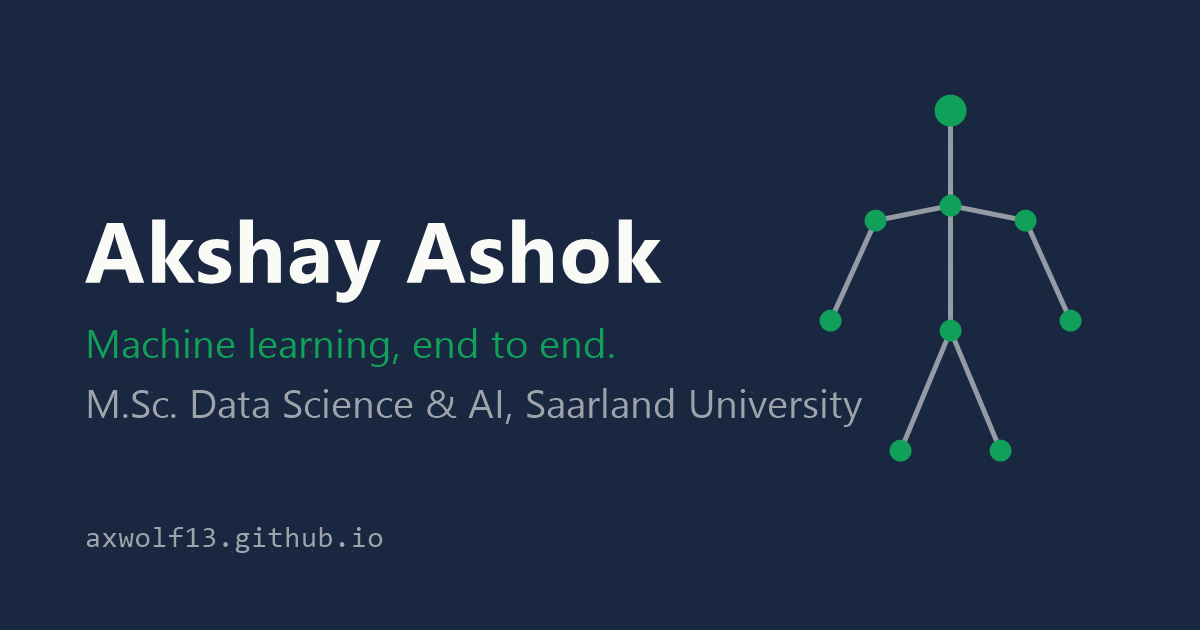
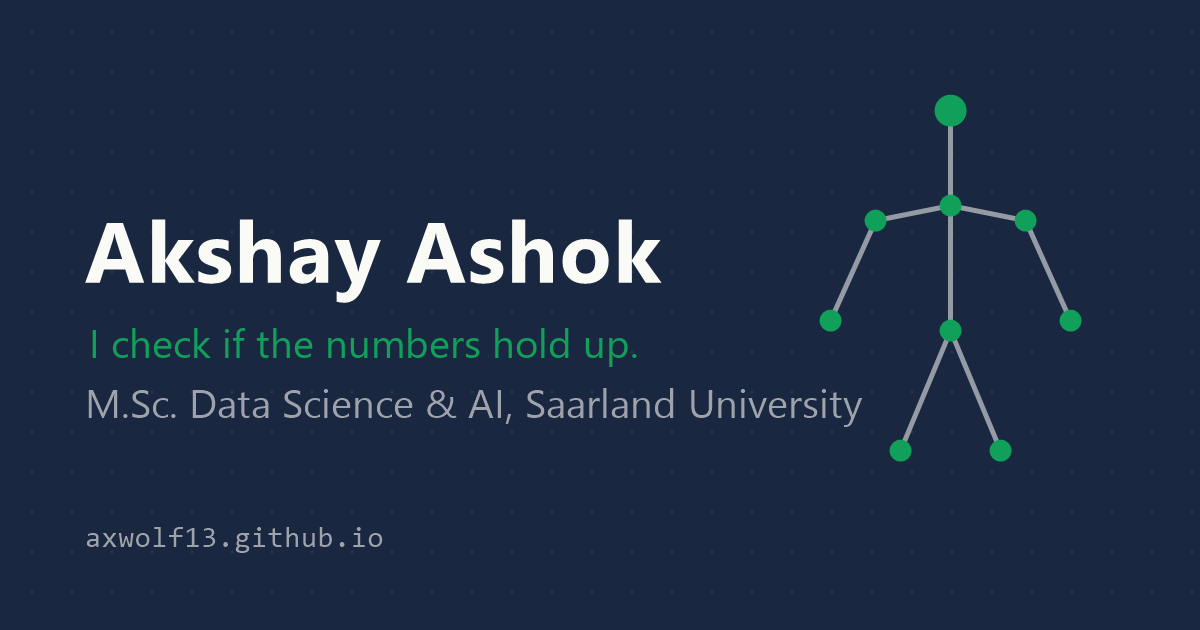
Sharper headline, shorter project cards with key figures, On this page list for posts

Changed region(s): [[0.0617, 0.5127, 0.5242, 0.573]]

diff --git a/index.html b/index.html
@@ -58,10 +58,10 @@
     <div class="hero">
       <div>
         <div class="eyebrow">M.Sc. Data Science &amp; AI · Saarland University</div>
-        <h1>Machine learning, <span class="hl">end to end.</span></h1>
-        <p class="lede">I work across NLP, computer vision and applied ML, taking problems from dataset construction through model benchmarking to a documented, reproducible result. First author of a peer-reviewed computer vision paper (Sādhanā, Springer 2025). Python is my daily driver, with the OpenAI and Anthropic APIs for LLM tooling and agentic workflows.</p>
-        <span class="badge"><span class="dot" aria-hidden="true"></span>Saarbrücken · working student at ORBIS Value+ · open to thesis topics</span>
-        <span class="badge"><span class="dot" aria-hidden="true"></span>Latest: reproduced MolCA (EMNLP 2023) and tested which input it believes</span>
+        <h1>I check if the numbers <span class="hl">hold up.</span></h1>
+        <p class="lede">I reproduce papers, benchmark models and report what breaks next to what works, across NLP, computer vision and applied ML. First author of a peer-reviewed computer vision paper (Sādhanā, Springer 2025). Python is my daily driver, with the OpenAI and Anthropic APIs for LLM tooling and agentic workflows.</p>
+        <span class="badge"><span class="dot" aria-hidden="true"></span>Working student at ORBIS Value+ · open to thesis topics</span>
+        <a class="latest" href="writing/molca/"><b>Latest</b> Reproduced MolCA and tested which input it believes <span aria-hidden="true">→</span></a>
         <div class="cta-row">
           <a class="btn btn-primary" href="mailto:akshay57ax@gmail.com">Email me</a>
           <a class="btn btn-ghost" href="Akshay_Ashok_CV.pdf" target="_blank" rel="noopener">CV (PDF)</a>
@@ -112,7 +112,8 @@
       <div class="pub">
         <h3>Real-time yoga pose estimation with a hybrid MoveNet architecture</h3>
         <div class="venue">Sādhanā · Indian Academy of Sciences, Springer · 2025 · First author</div>
-        <p>Built during a computer vision research internship at NIT Puducherry. The architecture splits deliberately: MoveNet Thunder generates high-fidelity keypoints for training, while MoveNet Lightning handles inference at 30+ FPS on consumer hardware: accuracy where the model learns, speed where the user waits. I owned the dataset end to end, consolidating and curating 3,435 images across 11 asanas from Kaggle and Yoga-82 sources, then trained the keypoint-embedding classifier, ran the misclassification analysis and carried the paper through two rounds of peer review.</p>
+        <p>Built during a computer vision research internship at NIT Puducherry. The architecture splits deliberately: MoveNet Thunder generates high-fidelity keypoints for training, while MoveNet Lightning handles inference at 30+ FPS on consumer hardware. Accuracy where the model learns, speed where the user waits.</p>
+        <p>I owned the dataset end to end: consolidated and curated 3,435 images across 11 asanas from Kaggle and Yoga-82 sources, trained the keypoint-embedding classifier, ran the misclassification analysis and carried the paper through two rounds of peer review.</p>
         <div class="stats">
           <div class="stat"><div class="n">98.8%</div><div class="l">test accuracy · 98.4% on-device, verifiable</div></div>
           <div class="stat"><div class="n">11</div><div class="l">asana classes</div></div>
@@ -134,8 +135,13 @@
         <div class="tag">Reproduction · LLMs × Graphs</div>
         <div>
           <h3>MolCA reproduction: which input does a molecule LLM believe?</h3>
-          <p>Graduate seminar with Prof. Dietrich Klakow, Saarland University. MolCA (Liu et al., EMNLP 2023) reads a molecule both as SMILES text and as a graph, wiring a graph encoder into Galactica through a Q-Former projector. I reproduced its released checkpoint on two very different machines: 62.32 and 62.77 BLEU-2 against the paper's 62.0, with 93.8% of captions character-identical across them. All 32 published retrieval metrics came back within 0.5 points, the 16 on the full test set within 0.12. Getting there took 14 patches to the released code, several fixing bugs nobody had reported upstream.</p>
-          <p>Then the experiment the paper never ran: give the model one molecule's text and a different molecule's graph. It describes the graph's molecule in about 90% of the cases where it clearly picks one. Breaking the graph costs 2.5 times what breaking the text costs. A wrong graph does more damage than no graph at all. The effect holds on a second dataset once I controlled for the 49% of its test set that leaks from the training data.</p>
+          <p>MolCA (Liu et al., EMNLP 2023) reads a molecule as SMILES text and as a graph at the same time. For a graduate seminar with Prof. Dietrich Klakow I reproduced its released checkpoint on two very different machines. Several of the patches it took fix bugs nobody had reported upstream.</p>
+          <p>Then the experiment the paper never ran: give the model one molecule's text and a different molecule's graph. It describes the graph's molecule in about 90% of the cases where it clearly picks one. A wrong graph does more damage than no graph at all.</p>
+          <ul class="figs">
+            <li><b>62.32 / 62.77</b> BLEU-2 on two machines. The paper reports 62.0.</li>
+            <li><b>14</b> patches to the released code</li>
+            <li><b>2.5×</b> the cost of breaking the graph, relative to breaking the text</li>
+          </ul>
           <div class="stack">PyTorch · Lightning · Hugging Face Transformers · Q-Former · LoRA · paired bootstrap · HTCondor cluster</div>
           <div class="links">
             <a class="textlink" href="writing/molca/">Write-up →</a>
@@ -148,12 +154,17 @@
         <div class="tag">Applied ML · Consulting</div>
         <div>
           <h3>Lingomatch, AI document triage for a Gov/Justice-Tech platform</h3>
-          <p>Student consultant (AI/Data Science) via the UdS Innovation Center's Triathlon startup programme: I built the ML backend of an AI-driven document-triage feasibility study for Lingomatch, turning photos of foreign-language documents into usable German gist translations for public authorities. I built and benchmarked the Arabic-to-German pipeline: Surya OCR evaluated on KITAB-Bench with CER/WER and confidence calibration; evaluated PaddleOCR as an independent second engine for disagreement-based flagging and documented its failure mode on Arabic due to engine-asymmetry; and benchmarked Opus-MT against NLLB&#8209;1.3B, matching translation quality (BLEU 43.8 vs 42.4) at a ninth of the memory, after catching the licence issue that ruled NLLB out for production.</p>
-          <p>Delivered the live demo in the final case-study presentation to the company's CEO.</p>
+          <p>Student consultant (AI/Data Science) via the UdS Innovation Center's Triathlon startup programme. I built the ML backend of a document-triage feasibility study for Lingomatch: photos of foreign-language documents in, usable German gist translations for public authorities out.</p>
+          <p>I built and benchmarked the Arabic-to-German pipeline: Surya OCR on KITAB-Bench, PaddleOCR as a second engine for disagreement-based flagging (its failure mode on Arabic is documented) and Opus-MT against NLLB&#8209;1.3B. I caught the licence issue that ruled NLLB out for production and delivered the live demo to the company's CEO in the final case-study presentation.</p>
+          <ul class="figs">
+            <li><b>43.8</b> BLEU for Opus-MT. NLLB&#8209;1.3B scores 42.4.</li>
+            <li><b>1/9</b> of NLLB's memory for matching quality</li>
+            <li><b>8&nbsp;GB</b> laptop GPU the whole benchmark ran on</li>
+          </ul>
           <div class="stack">Python · Hugging Face Transformers · Surya OCR · PaddleOCR · Opus-MT · NLLB · BLEU / CER evaluation</div>
           <div class="links">
-            <a class="textlink" href="https://github.com/Axwolf13/arabic-doc-triage-research" target="_blank" rel="noopener">Code →</a>
             <a class="textlink" href="writing/arabic-ocr-benchmarks/">Write-up →</a>
+            <a class="textlink" href="https://github.com/Axwolf13/arabic-doc-triage-research" target="_blank" rel="noopener">Code →</a>
           </div>
         </div>
       </div>
@@ -162,15 +173,20 @@
         <div class="tag">NLP · Shipped web service</div>
         <div>
           <h3>DODI: deception scoring for Terms-of-Service documents</h3>
-          <p>DODI (Digital Ownership Deception Index) quantifies the gap between "Buy now" marketing and "you're only licensing this" fine print in consumer ToS documents. A deterministic, fully reproducible scorer (Flesch–Kincaid readability, licence-vs-ownership term ratio, red-flag clause detection, weighted 25/50/25) compared against ToS;DR human expert grades (Spearman ρ = 0.45, n = 10, not significant) and applied as a temporal study: 10 platforms, four Wayback Machine snapshots each (2015–2024). The index passes its face-validity test: GOG, the DRM-free "you own your games" store, scores lowest of all ten platforms in every year.</p>
-          <p>Then I checked my own index with three LLM judges from two vendors. They barely agree with it (ρ = 0.05 to 0.26). The disagreement exposed a real flaw: DODI can't tell an honest subscription from a deceptive "Buy" button. Version 1.1 (September 2026) counts whole words and validates against reviewed ToS;DR grades only. <a class="textlink" href="writing/dodi-v2/">Version 2</a> reads the archived store page first: an ownership promise only counts if the store made one.</p>
-          <p>Shipped end to end, not just analysed: the scorer runs as a public web service, a Dockerized FastAPI app with tests and CI. It's also an MCP server over Streamable HTTP, deployed on Render, so an AI agent can call the scorer as a tool. I've tested it inside a Microsoft Copilot Studio agent.</p>
+          <p>DODI (Digital Ownership Deception Index) scores the gap between "Buy now" marketing and "you're only licensing this" fine print in consumer ToS documents. It's deterministic and fully reproducible, built from readability, licence-vs-ownership wording and red-flag clauses. It passes its face-validity test: GOG, the DRM-free "you own your games" store, scores lowest of all ten platforms in every year.</p>
+          <p>Then I checked my own index with three LLM judges from two vendors. They barely agree with it (ρ = 0.05 to 0.26) and the disagreement exposed a real flaw: DODI can't tell an honest subscription from a deceptive "Buy" button. Version 1.1 (September 2026) counts whole words and validates against reviewed ToS;DR grades only. <a class="textlink" href="writing/dodi-v2/">Version 2</a> reads the archived store page first: an ownership promise only counts if the store made one.</p>
+          <p>Shipped, not just analysed: a public web service (Dockerized FastAPI, tests, CI) and an MCP server on Render that an AI agent can call as a tool, tested inside a Microsoft Copilot Studio agent.</p>
+          <ul class="figs">
+            <li><b>10</b> platforms, four Wayback snapshots each, 2015 to 2024</li>
+            <li><b>0.45</b> Spearman correlation with ToS;DR human grades (n = 10, not significant)</li>
+            <li><b>3</b> LLM judges from two vendors checking the index</li>
+          </ul>
           <div class="stack">Python · textstat · SciPy · FastAPI · Docker · CI (GitHub Actions) · MCP · LLM-as-judge · ToS;DR validation</div>
           <div class="links">
             <a class="textlink" href="https://dodi-web.onrender.com/" target="_blank" rel="noopener">Live scorer →</a>
-            <a class="textlink" href="https://github.com/Axwolf13/dodi-analysis" target="_blank" rel="noopener">Code →</a>
             <a class="textlink" href="writing/dodi/">Write-up →</a>
             <a class="textlink" href="writing/llm-judge/">Judge write-up →</a>
+            <a class="textlink" href="https://github.com/Axwolf13/dodi-analysis" target="_blank" rel="noopener">Code →</a>
           </div>
         </div>
       </div>
@@ -179,7 +195,12 @@
         <div class="tag">Process mining · Purchase-to-pay</div>
         <div>
           <h3>Mining a real purchase-to-pay log</h3>
-          <p>A process mining pass over the public BPI Challenge 2019 log: one year of purchasing at a large coatings company, 251,734 purchase-order items and 1.6 million events. I streamed the 728&nbsp;MB XES file into Parquet and measured what process teams ask first. Orders take a median of 77 days from item to cleared invoice. 22% need a payment block lifted, 1.7% were ordered only after the invoice existed and 96% of invoice steps are still done by hand. 11,938 distinct paths, of which 45 cover 80% of items.</p>
+          <p>A process mining pass over the public BPI Challenge 2019 log: one year of purchasing at a large coatings company, 251,734 purchase-order items and 1.6 million events. I streamed the 728&nbsp;MB XES file into Parquet and measured what process teams ask first. 1.7% of items were ordered only after the invoice existed. 11,938 distinct paths, of which 45 cover 80% of items.</p>
+          <ul class="figs">
+            <li><b>77 days</b> median from order item to cleared invoice</li>
+            <li><b>22%</b> of items need a payment block lifted</li>
+            <li><b>96%</b> of invoice steps still done by hand</li>
+          </ul>
           <div class="stack">Python · pandas · XES streaming · variant analysis · conformance rules · matplotlib</div>
           <div class="links">
             <a class="textlink" href="writing/purchase-to-pay/">Write-up →</a>
@@ -192,7 +213,13 @@
         <div class="tag">Data analysis · Economics</div>
         <div>
           <h3>Shadow Correction: piracy as a market signal</h3>
-          <p>Quantitative study (team of 3) testing whether piracy behaves as a market-correction signal, structured as three testable barriers. The primary parameter: streaming-market fragmentation, measured with the Herfindahl–Hirschman Index on Parrot Analytics demand-share data. The supporting parameters were designed as falsification tests: piracy-intent indices built from Google Trends (pytrends) aligned with income per hour worked (World Bank GDP per capita over annual working hours) across 122 countries. That correlation is statistically zero (Spearman ρ = −0.001, p = 0.99), which rules out affordability as the explanation. Fragmentation tracks the rise in piracy visits, though on six years of data the trend isn't significant. The third test is an event study of piracy spikes after content delistings.</p>
+          <p>Quantitative study (team of 3) testing whether piracy behaves as a market-correction signal, structured as three testable barriers. The primary one is streaming-market fragmentation, measured with the Herfindahl–Hirschman Index on Parrot Analytics demand-share data. It tracks the rise in piracy visits, though on six years of data the trend isn't significant.</p>
+          <p>Affordability was the falsification test: piracy-intent indices built from Google Trends against income per hour worked. That correlation is statistically zero, which rules out affordability as the explanation. The third test is an event study of piracy spikes after content delistings.</p>
+          <ul class="figs">
+            <li><b>122</b> countries in the affordability test</li>
+            <li><b>−0.001</b> Spearman correlation of piracy intent with income (p = 0.99)</li>
+            <li><b>3</b> testable barriers: fragmentation, affordability, delistings</li>
+          </ul>
           <div class="stack">Python · pandas · pytrends · HHI · Parrot Analytics / World Bank data · event-study design</div>
           <div class="links">
             <a class="textlink" href="https://github.com/Axwolf13/Shadow-Correction-DaS-Project" target="_blank" rel="noopener">Code →</a>
@@ -222,7 +249,12 @@
         </div>
         <div>
           <h3>How I work</h3>
-          <p>I benchmark before I recommend: models get tested on realistic inputs and failure modes go in the report next to the wins; a translation model that degrades on long legal text is a finding, not a footnote. I take deployment constraints seriously from day one: model licences, GDPR, EU AI Act obligations and what actually fits in 8&nbsp;GB of VRAM. Everything ships version-controlled and documented so it survives handover. Where I'm still building depth I say so and pick it up fast: Docker, CI/CD and cloud deployment were on that list until I shipped DODI's live scorer as a Dockerized FastAPI service with CI on every push.</p>
+          <ul class="how">
+            <li><b>I benchmark before I recommend.</b> Models get tested on realistic inputs and failure modes go in the report next to the wins. A translation model that degrades on long legal text is a finding, not a footnote.</li>
+            <li><b>Deployment constraints count from day one.</b> Model licences, GDPR, EU AI Act obligations and what actually fits in 8&nbsp;GB of VRAM.</li>
+            <li><b>Everything survives handover.</b> It ships version-controlled and documented.</li>
+            <li><b>Where I'm still building depth I say so.</b> Then I pick it up fast: Docker, CI/CD and cloud deployment were on that list until I shipped DODI's live scorer as a Dockerized FastAPI service with CI on every push.</li>
+          </ul>
           <div class="lang">EN: C1 fluent · DE: A2, in active study toward B1 · Tamil: native · Hindi: conversational</div>
         </div>
       </div>

diff --git a/style.css b/style.css
@@ -33,6 +33,7 @@ html[data-theme="dark"]{
 }
 *{box-sizing:border-box;margin:0;padding:0}
 h1,h2,h3{text-wrap:balance}
+p,li{text-wrap:pretty}
 body{
   background:var(--paper);
   background-image:radial-gradient(rgba(26,39,64,.05) 1px,transparent 1px);
@@ -129,9 +130,17 @@ h1 .hl{background:linear-gradient(transparent 66%,rgba(17,160,90,.28) 66%)}
   display:inline-flex;align-items:center;gap:8px;margin-top:26px;
   font-family:'IBM Plex Mono',monospace;font-size:12.5px;letter-spacing:.03em;
   color:var(--ink);background:var(--card);border:1px solid var(--hairline);
-  border-radius:999px;padding:8px 16px;
+  border-radius:18px;padding:8px 16px; /* a full pill on one line, a tidy box when it wraps on phones */
 }
 .badge .dot{width:8px;height:8px;border-radius:50%;background:var(--accent);flex:none;position:relative}
+.latest{
+  display:block;margin-top:16px;
+  font-family:'IBM Plex Mono',monospace;font-size:12.5px;letter-spacing:.03em;
+  color:var(--ink);text-decoration:none;
+  transition:color .15s ease;
+}
+.latest b{font-weight:500;color:var(--accent-ink);text-transform:uppercase;letter-spacing:.12em;margin-right:8px}
+.latest:hover,.latest:focus-visible{color:var(--accent-ink)}
 .cta-row{margin-top:30px;display:flex;flex-wrap:wrap;gap:12px}
 .btn{
   font-family:'IBM Plex Mono',monospace;font-size:13.5px;text-decoration:none;
@@ -174,12 +183,13 @@ html[data-theme="dark"] .btn-primary:hover{background:#25A765}
   html{scroll-behavior:smooth}
   .reveal{opacity:0;transform:translateY(16px);transition:opacity .55s ease,transform .55s ease}
   .reveal.in{opacity:1;transform:none}
-  .hero .eyebrow,.hero h1,.hero .lede,.hero .badge,.hero .cta-row{
+  .hero .eyebrow,.hero h1,.hero .lede,.hero .badge,.hero .latest,.hero .cta-row{
     opacity:0;transform:translateY(12px);animation:rise .6s ease forwards;
   }
   .hero h1{animation-delay:.08s}
   .hero .lede{animation-delay:.16s}
   .hero .badge{animation-delay:.24s}
+  .hero .latest{animation-delay:.28s}
   .hero .cta-row{animation-delay:.32s}
   .badge .dot::after{
     content:"";position:absolute;inset:0;border-radius:50%;
@@ -251,6 +261,11 @@ section{padding:56px 0;border-top:1px solid var(--hairline);scroll-margin-top:76
   border-radius:8px;padding:18px 22px;margin-top:22px;
 }
 .article .backlink{margin-top:44px}
+.article h2{scroll-margin-top:84px}
+.toc{margin-top:22px;font-size:.92rem}
+.toc summary{cursor:pointer;font-family:'IBM Plex Mono',monospace;font-size:12.5px;color:var(--accent-ink)}
+.toc ol{margin-top:8px}
+.toc li{margin-top:5px}
 
 /* charts (colors validated: light #11A05A/#838EA2 on paper, dark #24AC68/#63738E) */
 :root{--chart-accent:#11A05A;--chart-muted:#838EA2;--chart-hover:rgba(26,39,64,.045)}
@@ -337,7 +352,11 @@ p .textlink,li .textlink,.callout .textlink{margin-right:0;white-space:normal}
 .proj .tag{font-family:'IBM Plex Mono',monospace;font-size:12px;letter-spacing:.08em;text-transform:uppercase;color:var(--accent-ink);padding-top:5px}
 .proj h3{font-family:'Archivo',sans-serif;font-weight:700;font-size:1.22rem;letter-spacing:-.01em}
 .proj p{margin-top:10px;color:var(--ink);max-width:44em}
-.proj .stack{font-family:'IBM Plex Mono',monospace;font-size:12.5px;color:var(--muted);margin-top:12px}
+/* three key figures per project, a smaller echo of the paper card's stats */
+.figs{list-style:none;display:grid;grid-template-columns:repeat(3,1fr);gap:14px 28px;margin-top:18px;max-width:44em}
+.figs li{font-family:'IBM Plex Mono',monospace;font-size:11.5px;line-height:1.5;letter-spacing:.02em;color:var(--muted)}
+.figs b{display:block;margin-bottom:3px;font-family:'Archivo',sans-serif;font-weight:900;font-size:1.3rem;line-height:1.15;letter-spacing:-.01em;color:var(--ink);white-space:nowrap}
+.proj .stack{font-family:'IBM Plex Mono',monospace;font-size:12.5px;color:var(--muted);margin-top:16px}
 .proj .links{margin-top:12px}
 
 /* timeline */
@@ -370,6 +389,9 @@ p .textlink,li .textlink,.callout .textlink{margin-right:0;white-space:normal}
   border-radius:6px;padding:6px 12px;color:var(--ink);
 }
 .cols p{max-width:34em}
+.how{list-style:none;max-width:34em}
+.how li+li{margin-top:12px}
+.how b{font-weight:600}
 .cols .lang{font-family:'IBM Plex Mono',monospace;font-size:13px;color:var(--muted);margin-top:14px}
 
 /* footer */
@@ -435,9 +457,9 @@ html[data-theme="dark"] .fineprint{color:rgba(232,236,244,.5)}
 .demo-hint{font-family:'IBM Plex Mono',monospace;font-size:12.5px;color:var(--muted);margin-top:26px;max-width:52em}
 
 @media (max-width:760px){
-  .hero{grid-template-columns:1fr;padding:52px 0 44px}
+  .hero{grid-template-columns:1fr;gap:26px;padding:34px 0 44px}
   .demo-grid{grid-template-columns:1fr}
-  .pose{max-width:190px;order:-1}
+  .pose{max-width:132px;order:-1} /* small enough that the headline stays on the first screen */
   .proj{grid-template-columns:1fr;gap:8px}
   .cols{grid-template-columns:1fr}
   nav a{margin-left:14px}
@@ -447,6 +469,10 @@ html[data-theme="dark"] .fineprint{color:rgba(232,236,244,.5)}
   footer{padding:36px 24px;border-radius:12px}
 }
 @media (max-width:480px){
+  /* on phones each figure is one row: number left, label right */
+  .figs{grid-template-columns:1fr;gap:8px}
+  .figs li{display:grid;grid-template-columns:7.6rem 1fr;gap:12px;align-items:baseline}
+  .figs b{margin:0;font-size:1.1rem}
   .article table{font-size:.84em}
   .article th,.article td{padding:6px 8px}
   .bars .chart-row{grid-template-columns:1fr;gap:0}
@@ -487,7 +513,8 @@ html[data-theme="dark"] .fineprint{color:rgba(232,236,244,.5)}
   header{position:static;background:none;border-bottom:0;-webkit-backdrop-filter:none;backdrop-filter:none}
   nav,.skip,#progress,.backlink,footer .textlink{display:none}
   /* sections below the fold never met the scroll observer, so they would print blank */
-  .reveal,.hero .eyebrow,.hero h1,.hero .lede,.hero .badge,.hero .cta-row{opacity:1!important;transform:none!important;animation:none!important}
+  .reveal,.hero .eyebrow,.hero h1,.hero .lede,.hero .badge,.hero .latest,.hero .cta-row{opacity:1!important;transform:none!important;animation:none!important}
+  .toc{display:none}
   .pose,.badge .dot::after{animation:none}
   .pose line{animation:none;stroke-dashoffset:0}
   .pose circle,.pose .kp-label{animation:none;opacity:1}

diff --git a/script.js b/script.js
@@ -30,6 +30,8 @@
     ['h1', 'headline'],
     ['.lede', 'text_block'],
     ['.badge', 'status_chip'],
+    ['.latest', 'latest_link'],
+    ['.figs', 'key_figures'],
     ['.pose', 'pose_input'],
     ['.pub', 'publication_card'],
     ['.proj', 'work_item'],
@@ -67,6 +69,37 @@
       try{ stored = localStorage.getItem('theme'); }catch(err){}
       if(!stored) applyTheme(e.matches ? 'dark' : 'light');
     });
+  }
+
+  // long posts get a collapsed "On this page" list built from their h2s
+  var article = document.querySelector('.article');
+  var heads = article ? article.querySelectorAll('h2') : [];
+  if(heads.length >= 5){
+    var toc = document.createElement('details');
+    toc.className = 'toc';
+    var tocLabel = document.createElement('summary');
+    tocLabel.textContent = 'On this page';
+    var tocList = document.createElement('ol');
+    heads.forEach(function(h, i){
+      if(!h.id){
+        var slug = h.textContent.toLowerCase().replace(/[^a-z0-9]+/g, '-').replace(/^-+|-+$/g, '') || 'section';
+        h.id = document.getElementById(slug) ? slug + '-' + (i + 1) : slug;
+      }
+      var item = document.createElement('li');
+      var link = document.createElement('a');
+      link.className = 'textlink';
+      link.href = '#' + h.id;
+      link.textContent = h.textContent;
+      item.appendChild(link);
+      tocList.appendChild(item);
+    });
+    toc.appendChild(tocLabel);
+    toc.appendChild(tocList);
+    var after = article.querySelector('.lede') || article.querySelector('h1');
+    after.parentNode.insertBefore(toc, after.nextSibling);
+    // the ids did not exist when the browser first looked for the hash
+    var wanted = location.hash && document.getElementById(decodeURIComponent(location.hash.slice(1)));
+    if(wanted) wanted.scrollIntoView();
   }
 
   // scroll reveal, with stagger for list items
